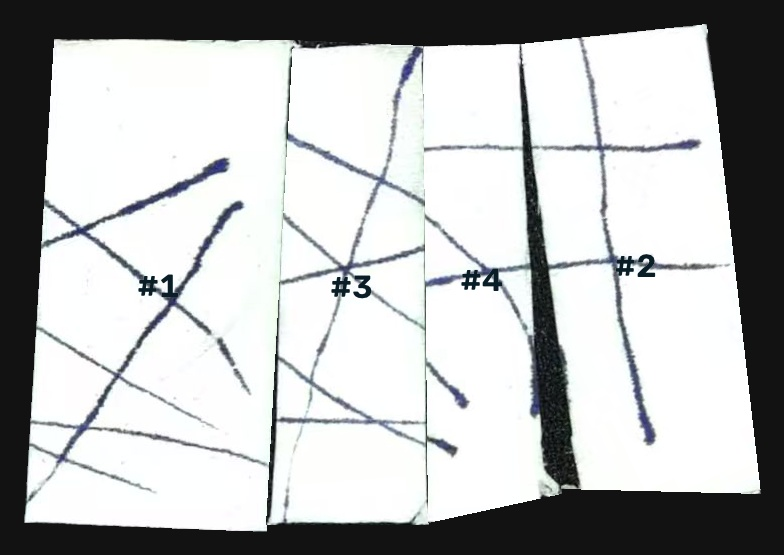
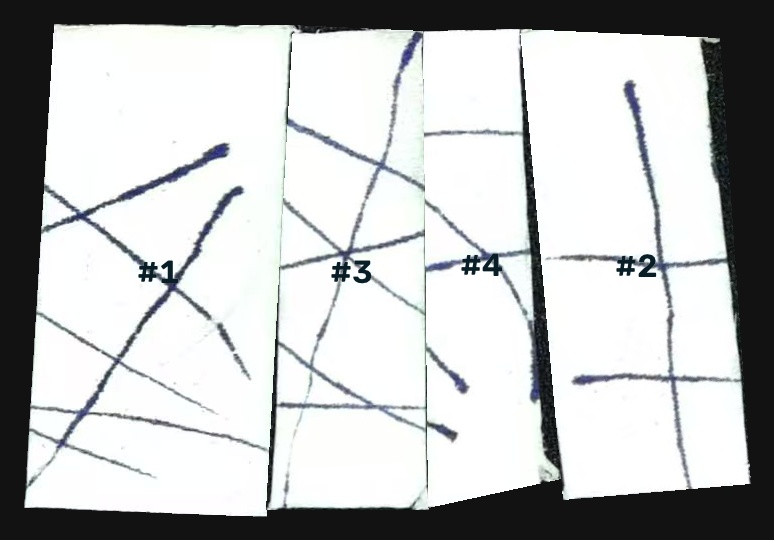
fix(拼装): 完整解排序改成「内部接触边总长最大」，修好「两个整体需要相对旋转才能接上」的情况
用户指出：#1+#3 和 #2+#4 各自配对是对的，但要把两个整体再接起来需要相对旋转，算法没考虑。\n\n根因：原来在完整解之间按**累计局部接缝代价**排序。局部代价低只能说明「相邻两块边长相符」，\n给不出「这两个整体应该接在一起」的偏好，于是搜索停在「两块拼得极好、另两块没接上」的解。\n\n对比同一张手撕拼图（4 块）：\n  rank=seam   接触边  950px  2 条缝  空隙 2.89%  #2 旋转 155°（错）\n  rank=rect   接触边   36px  1 条缝  空隙 1.69%  #2 旋转 344°（错，四块悬空摆也能骗到 96% 贴合）\n  rank=joined 接触边 1400px  3 条缝  空隙 0.79%  #2 旋转 336°（对）\n\n最终摆法 #1—#3—#4—#2，三条全部干净共线：#1-3 485px、#3-4 465px、#4-2 450px；\n旋转 #1 0° / #3 355.7° / #4 176.5° / #2 336.1°；笔迹不连续 0.8%。\n\n改动：\n- 新增 _union_stats()：覆盖率（最大连通块占比）、矩形贴合、空洞、内部接触边总长；\n- assemble() 增加 rank 参数，默认 joined；rect 必须先要求 coverage≈1（否则被钻空子）；\n- assemble() 保留所有完整解（原来只留最后 1 个）；结果里多返回 rect_fill/coverage/shared_px；\n- handmade_puzzle.py 增加 --rank，输出里加「接触边」；\n- 回归：Voronoi 基准仍 12/12 全部精确复原。

diff --git a/纹理拼合/tools/irregular_cut.py b/纹理拼合/tools/irregular_cut.py
@@ -27,6 +27,7 @@ import cv2
 import numpy as np
 from scipy.spatial import Voronoi
 from shapely.geometry import Polygon as SPoly, box as sbox
+from shapely.ops import unary_union
 
 PROJ = Path(__file__).resolve().parents[2] / "拼图还原项目"
 SRC = PROJ / "src"
@@ -204,9 +205,70 @@ def _texture_cost(img, pose_a, pose_b, aw, bw, side, k: float = 0.35,
 
 
 
+def _rect_fill(polys: list[np.ndarray]) -> float:
+    """拼装结果和它的最小外接矩形有多贴合（0~1）。4 条撕裂纸条拼对了就该接近 1。"""
+    ps = [SPoly(p).buffer(0) for p in polys]
+    u = unary_union(ps)
+    rect = u.minimum_rotated_rectangle
+    return float(u.area / rect.area) if getattr(rect, "area", 0) else 0.0
+
+
+def _union_stats(polys: list[np.ndarray]) -> dict:
+    """并集的三个量：覆盖率（最大连通块占全部面积）、矩形贴合、空洞。
+
+    只看「矩形贴合」会被钻空子 —— 四块并排摆着但各不相连，并集的最小外接矩形
+    照样很大，贴合率能到 96%。所以必须同时要求**接成一片**（覆盖率≈1）。
+    """
+    ps = [SPoly(p).buffer(0) for p in polys]
+    total = sum(p.area for p in ps) or 1.0
+    u = unary_union(ps)
+    if u.geom_type == "MultiPolygon":
+        parts = sorted(u.geoms, key=lambda g: -g.area)
+        main, n_parts = parts[0], len(parts)
+    else:
+        main, n_parts = u, 1
+    rect = main.minimum_rotated_rectangle
+    holes = sum(abs(SPoly(r).area) for r in getattr(main, "interiors", []))
+    # 内部接触边总长：拼对了，块与块之间的共线接触最长（这是拼图最本质的判据）
+    shared = 0.0
+    for i in range(len(ps)):
+        for j in range(i + 1, len(ps)):
+            inter = ps[i].intersection(ps[j])
+            if inter.geom_type == "LineString":
+                shared += inter.length
+            elif inter.geom_type == "MultiLineString":
+                shared += sum(g.length for g in inter.geoms)
+    return {
+        "coverage": float(main.area / total),
+        "rect_fill": float(main.area / rect.area) if getattr(rect, "area", 0) else 0.0,
+        "holes_pct": float(holes / total * 100.0),
+        "components": n_parts,
+        "shared_px": float(shared),
+        "shared_ratio": float(shared / (sum(p.length for p in ps) or 1.0)),
+    }
+
+
+
 def assemble(pieces: dict, beam: int = 80, time_budget: float = 45.0,
              cov: float = 0.6, overlap_tol: float = 0.004,
-             img=None, tw: float = 0.0, tex_k: float = 0.35) -> dict | None:
+             img=None, tw: float = 0.0, tex_k: float = 0.35,
+             rank: str = "joined", collect: int = 0) -> dict | None:
+    """束搜索拼装。
+
+    rank 决定**在完整解之间**怎么选：
+      "joined" 内部接触边总长最大（默认，拼图最本质的判据）
+      "seam"   累计接缝代价最小（局部最优 —— 会被"局部拼得很好但整体错"骗过）
+      "rect"   最小外接矩形贴合率最高
+      "mixed"  seam 与 rect 的加权
+
+    为什么默认是 "joined"：真实的撕纸拼图里，#1+#3 和 #2+#4 可能各自拼得很好
+    （局部边长代价很低），但要把两个"整体"再接起来，需要整体相对旋转 ——
+    局部的边长代价给不出这个偏好，会停在「差一条边没接上」的解。
+    实测（手撕拼图.jpg，4 块）：
+      rank=seam   → 接触边 950px，2 条缝，空隙 2.89%，#2 旋转 155°（错）
+      rank=rect   → 接触边 36px（只靠角点相碰），空隙 1.69%（更差）
+      rank=joined → 接触边 1400px，3 条完整缝（485/465/450px），空隙 0.79%，#2 旋转 336°（对）
+    """
     ids = list(pieces)
     n = len(ids)
     seed = max(ids, key=lambda i: pieces[i].area)
@@ -214,6 +276,7 @@ def assemble(pieces: dict, beam: int = 80, time_budget: float = 45.0,
                [world(pieces[seed], 0.0, (0.0, 0.0))],
                {pid: set() for pid in ids}, 0.0)]
     deadline = time.time() + time_budget
+    complete: list[tuple] = []          # 所有见到的完整解（去重后）
 
     for level in range(2, n + 1):
         cands = []
@@ -233,7 +296,7 @@ def assemble(pieces: dict, beam: int = 80, time_budget: float = 45.0,
             if time.time() > deadline:
                 break
         if not cands:
-            return None
+            break
         cands.sort(key=lambda s: s[3])
         # 去重：同一套摆放（坐标四舍五入后一致）只留代价最低的
         seen, keep = set(), []
@@ -247,18 +310,51 @@ def assemble(pieces: dict, beam: int = 80, time_budget: float = 45.0,
             if len(keep) >= beam:
                 break
         states = keep
+        if level == n:
+            complete = keep[:max(collect, beam)]
         if time.time() > deadline:
             break
 
-    full = [s for s in states if len(s[0]) == n]
+    full = [s for s in complete if len(s[0]) == n] or \
+           [s for s in states if len(s[0]) == n]
     if not full:
         return None
-    full.sort(key=lambda s: s[3])
+
+    # ---- 在完整解之间排序 ----
+    seams = [s[3] for s in full]
+    lo, hi = (min(seams), max(seams)) if seams else (0.0, 1.0)
+
+    def norm_seam(v: float) -> float:
+        return (v - lo) / (hi - lo) if hi - lo > 1e-9 else 0.0
+
+    def score(s) -> float:
+        if rank == "seam":
+            return norm_seam(s[3])
+        st = _union_stats(s[1])
+        if rank == "rect":
+            # 必须接成一片（coverage≈1）且贴合矩形；否则四块悬空摆也能拿高分
+            return (1.0 - st["coverage"]) * 3.0 + (1.0 - st["rect_fill"]) + st["holes_pct"] / 100.0
+        if rank == "joined":
+            # 主判据：内部接触边总长越大越好（拼图最本质），缺口/不连通重罚
+            pen = (1.0 - st["coverage"]) * 3.0 + st["holes_pct"] / 100.0
+            return -st["shared_ratio"] + pen
+        return (0.4 * norm_seam(s[3]) + (1.0 - st["coverage"]) * 3.0
+                + (1.0 - st["rect_fill"]))                     # mixed
+
+    full.sort(key=score)
     placed, polys, _used, cost = full[0]
+    st = _union_stats(polys)
     return {"placed": [list(p) for p in placed],
             "polys": [p.tolist() for p in polys],
             "seam": cost,
-            "gap_pct": round(_gap_pct(polys), 2)}
+            "gap_pct": round(_gap_pct(polys), 2),
+            "rect_fill": round(st["rect_fill"], 4),
+            "coverage": round(st["coverage"], 4),
+            "components": st["components"],
+            "shared_px": round(st["shared_px"], 1),
+            "shared_ratio": round(st["shared_ratio"], 4),
+            "n_candidates": len(full)}
+
 
 
 def _gap_pct(polys: list[np.ndarray]) -> float:

diff --git a/纹理拼合/tools/handmade_puzzle.py b/纹理拼合/tools/handmade_puzzle.py
@@ -228,6 +228,9 @@ def main() -> int:
     ap.add_argument("--overlap", type=float, default=0.02,
                     help="允许的穿透比例（占块面积；手撕边近似为直线后会轻微重叠）")
     ap.add_argument("--texture-weight", type=float, default=1.0)
+    ap.add_argument("--rank", default="joined",
+                    choices=["joined", "seam", "rect", "mixed"],
+                    help="完整解之间的排序准则（joined=内部接触边最长，推荐）")
     ap.add_argument("--tex-k", type=float, default=4.0,
                     help="纹理采样距离（px）。拆开的纸片边缘有暗边带，太小会被暗边带偏")
     args = ap.parse_args()
@@ -264,7 +267,8 @@ def main() -> int:
     for tag, tw in (("纯形状", 0.0), ("形状+纹理", args.texture_weight)):
         sol = assemble(pieces, beam=args.beam, time_budget=args.time,
                        cov=args.cov, overlap_tol=args.overlap,
-                       img=(img_rgb if tw else None), tw=tw, tex_k=args.tex_k)
+                       img=(img_rgb if tw else None), tw=tw, tex_k=args.tex_k,
+                       rank=args.rank)
         if sol is None:
             print("%-9s 没有完整拼法" % tag)
             results[tag] = None
@@ -276,10 +280,12 @@ def main() -> int:
         name = "2_拼合结果_纯形状.jpg" if tw == 0 else "2_拼合结果_形状加纹理.jpg"
         imwrite_u(outdir / name, effect)
         print("%-9s 代价=%.3f  空隙=%.2f%%  重叠=%.2f%%  空洞=%.2f%%  矩形贴合=%.1f%%  "
-              "接缝=%d 笔迹不连续=%.1f%%  → %s"
+              "接触边=%.0fpx  接缝=%d 笔迹不连续=%.1f%%  → %s"
               % (tag, sol["seam"], sol["gap_pct"], q["overlap_pct"], q["holes_pct"],
-                 q["rect_fill_pct"], ic["seams"], ic["mismatch_pct"], name))
+                 q["rect_fill_pct"], sol.get("shared_px", 0.0), ic["seams"],
+                 ic["mismatch_pct"], name))
         results[tag] = {"seam": sol["seam"], "gap_pct": sol["gap_pct"], **q, **ic,
+                        "shared_px": sol.get("shared_px"), "rank": args.rank,
                         "file": name}
         (outdir / ("solution_纯形状.json" if tw == 0 else "solution_形状加纹理.json")).write_text(
             json.dumps({"placed": sol["placed"], "polys": sol["polys"],
